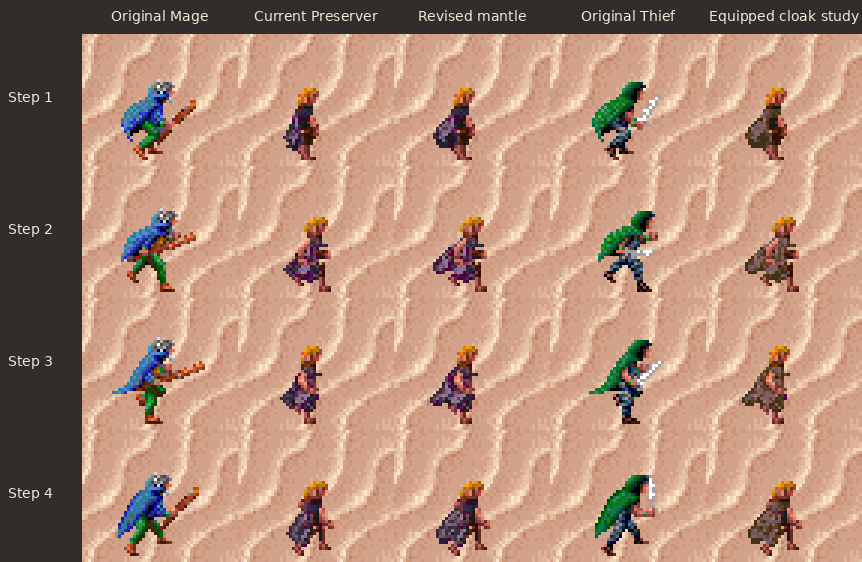
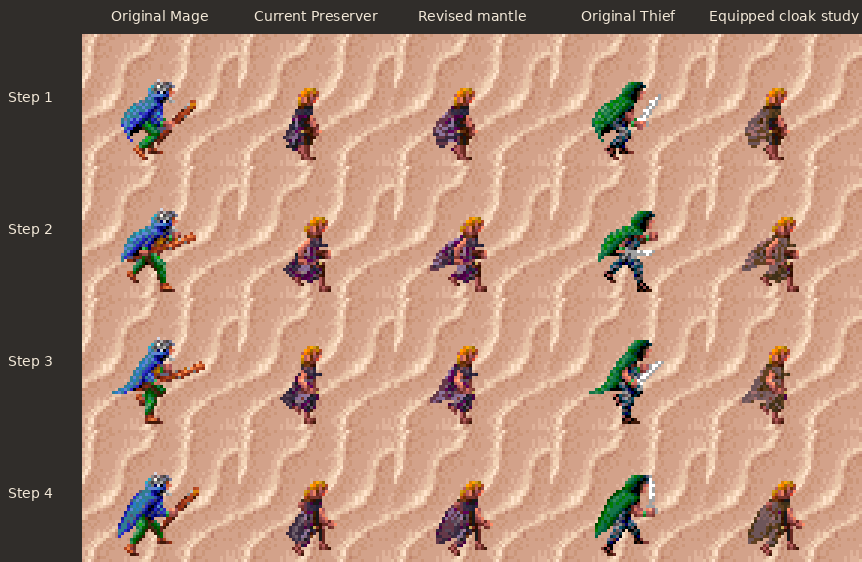
Lift the elf mantle tip and follow the retail Mage’s profile folds

diff --git a/prototypes/elfmantlestudy.py b/prototypes/elfmantlestudy.py
@@ -126,18 +126,25 @@ def render(atlas, output):
     sheet.save(output / "elf-mantle-fold-study.png")
 
 
-# The outer fold runs behind the stock silhouette. Each run begins at the
-# trailing edge and ends at the arm, hip, or lifted corner in that drawing.
-# All cloth inside the stock silhouette keeps its registered Preserver paint.
+# Trailing cloth outside the male elf's silhouette, from row 6 down.
+# Narrowing the last runs opens the space beneath the lifted corner.
 SWING_EDGES = {
-    11: (None, None, (-1, -1), (-2, 0), (-3, 1), (-4, 1), (-5, 1), (-5, 1),
-         (-6, 2), (-6, 2), (-5, 2), (-5, 1), (-4, 0)),
-    12: ((4, 4), (3, 3), (1, 2), (0, 1), (-1, 1), (-2, 1), (-3, 1), (-4, 1),
-         (-5, 1), (-5, 2), (-5, 2), (-4, -2)),
-    13: ((2, 2), (1, 2), (0, 2), (-1, 1), (-1, 1), (-2, 1), (-2, 2), (-3, 2),
-         (-4, 2), (-5, 2), (-6, 2), (-6, 1), (-5, -3)),
-    14: (None, None, (2, 2), (1, 3), (0, 4), (-1, 4), (-2, 3), (-2, 3),
-         (-3, 3), (-4, 3), (-4, 3), (-4, 3), (-3, 2), (-3, -1)),
+    11: ((0, 0), (-1, -1), (-2, -1), (-3, -1), (-4, 0), (-5, 1), (-5, 1),
+         (-6, 1), (-6, 1), (-6, 2), (-5, 2), (-5, 2), (-5, -2), (-4, -3)),
+    12: ((4, 4), (2, 4), (0, 3), (-1, 2), (-2, 1), (-3, 1), (-4, 1),
+         (-4, 1), (-5, 1), (-5, 1), (-6, -2), (-6, -4)),
+    13: ((2, 2), (1, 2), (0, 2), (0, 2), (-1, 1), (-2, 1), (-2, 1),
+         (-3, 2), (-3, 2), (-4, 2), (-5, 2), (-6, 2), (-6, -3)),
+    14: ((3, 3), (2, 2), (1, 1), (0, 2), (-1, 3), (-1, 4), (-2, 4),
+         (-2, 3), (-3, 3), (-3, 3), (-4, 3), (-4, 3), (-4, 3), (-4, 0), (-4, -2)),
+}
+
+# Pigments from the outer fold of retail Mage 724. Each maps to a plum
+# pigment for the class mantle and a relief rank for the six-color worn dye.
+MAGE_FOLD = {
+    158: (17, 0), 159: (174, 1), 38: (112, 2), 160: (175, 2),
+    71: (58, 3), 39: (239, 4), 161: (232, 5), 40: (233, 5),
+    49: (115, 3), 50: (119, 4), 212: (118, 4),
 }
 
 
@@ -147,40 +154,37 @@ def swing_tile(atlas, pose, item, scale):
     rows = [row[:] for row in source]
     frame = classoutfits.frames("Preserver", False, 2061)[pose]
     body = atlas.game.fr(2061, pose)
-    folds = {}
-    for x, y, _ in frame.cloak:
-        folds.setdefault(y, []).append(x)
-    edges = SWING_EDGES[pose]
-    crease = (115, 239, 118, 238, 239)
-    if item == "Cloak":
-        crease = tuple(sg.CLOAK_COLOURS[65][i] for i in (2, 4, 3, 5, 4))
-    hem = max(folds)
-    for y in range(7, hem + 1):
-        body_left = next(x for x, color in enumerate(body[y]) if color is not None)
-        cloth = sorted(folds.get(y, ()))
-        fringe = [x for x in cloth if x < body_left]
-        for x in fringe:
+    mage = atlas.game.fr(724, pose)
+    body_edge = [next((x for x, c in enumerate(row) if c is not None), len(row)) for row in body]
+    cloth = {(x, y) for x, y, _ in frame.cloak}
+    for x, y in cloth:
+        if x < body_edge[y]:
             rows[y + top][x + side] = None
-        if y - 7 >= len(edges) or edges[y - 7] is None:
-            continue
-        left, right = edges[y - 7]
-        # Lift the outer part of the fold. Take its actual indexed artwork
-        # from farther down the same mantle, including its ordinary item dye.
-        lower_y = min(y + 2, hem)
-        sample = sorted(folds[lower_y])
-        for x in range(left, right + 1):
+    for y, (left, right) in enumerate(SWING_EDGES[pose], 6):
+        body_left = body_edge[y]
+        # Read the continuous strip inward from the Mage's trailing edge.
+        # Stop before the original arm, staff, or open ground.
+        start = next(i for i, c in enumerate(mage[y]) if c in MAGE_FOLD)
+        strip = []
+        for color in mage[y][start:]:
+            if color not in MAGE_FOLD:
+                break
+            strip.append(MAGE_FOLD[color])
+        width = right - left + 1
+        for offset in range(width):
+            x = left + offset
             if x >= body_left or rows[y + top][x + side] is not None:
                 continue
-            if x in fringe and x >= right - 1:
-                color = source[y + top][x + side]
-            else:
-                col = round((x - left) * (len(sample) - 1) / max(1, right - left))
-                color = source[lower_y + top][sample[col] + side]
-            # The narrow lit lip follows the trailing crease behind the elbow.
-            # Keep the woven midtones on both sides and break the light at the hem.
-            if right - left >= 3 and x == left + (1 if y < 14 else 2) and 10 <= y <= 17:
-                color = crease[(y - 10) % len(crease)]
-            rows[y + top][x + side] = color
+            # Keep the short underfold where the loose cloth turns into the
+            # existing panel. The tucked edge moves with the hip.
+            if x >= body_left - 2 and (x, y) in cloth:
+                rows[y + top][x + side] = source[y + top][x + side]
+                continue
+            # Sample at pixel centers so rounding a narrow strip does not
+            # discard both the highlight and the valley on a two-pixel hem.
+            index = (2 * offset + 1) * len(strip) // (2 * width)
+            plum, rank = strip[index]
+            rows[y + top][x + side] = sg.CLOAK_COLOURS[65][rank] if item == "Cloak" else plum
     return elf.placed_tile(atlas.game, rows, atlas.floor, scale, side, top, 0)
 
 

diff --git a/obsidian-edition/docs/class-outfits/worn-equipment.md b/obsidian-edition/docs/class-outfits/worn-equipment.md
@@ -28,9 +28,9 @@ The proposed mantle has two creases of unequal length. They start under the shou
 
 ### How the cloak trails in profile
 
-Watch the lower corner of the original Mage and Thief as each takes a stride. The collar travels with the shoulder while the hem lifts behind the elbow. At the broadest part of the swing, a wedge of floor opens between cloth and calf. The first trailing version removed cloth over the hip in steps 2 and 3 and reduced the mantle to eight shades. In the revision, the collar, cloth behind the forearm, and layered folds over the hip retain their original Preserver pixels. Only the loose cloth behind the body moves. Its lower corner lifts in step 2, sweeps back in step 3, and settles in step 4. The lit edge uses the same motion in the equipped cloak’s dye. This is a profile art study.
+Watch the lower corner of the original Mage and Thief as each takes a stride. The collar travels with the shoulder while the hem lifts behind the elbow. At the broadest part of the swing, a wedge of floor opens between cloth and calf. The first trailing version removed cloth over the hip in steps 2 and 3 and reduced the mantle to eight shades. In the revision, the collar, cloth behind the forearm, and layered folds over the hip retain their original Preserver pixels. Only the loose cloth behind the body moves. Its lower corner lifts in step 2, sweeps back in step 3, and settles in step 4. For the latest profile study, the free edge takes its light and shadow from the original Mage in the matching step. The elf’s shorter mantle uses a plum palette. The corner now narrows to a few pixels behind the elbow during steps 2 and 3. The tucked fold at the hip retains its earlier paint. Equipping the ordinary cloak maps the same folds into its six dye shades.
 
-[Compare the two reported poses in the earlier mantle, last proposal, revision, and original Mage](elf-mantle-midstride.png)
+[Compare steps 2 and 3 in the base class outfit, the previous study (482ed5d), this revision, and the original Mage](elf-mantle-midstride.png)
 
 [Watch the four-step profile loop at game size and 3×](elf-mantle-swing.gif) · [Inspect every step, including the equipped cloak dye](elf-mantle-swing.png)
 
